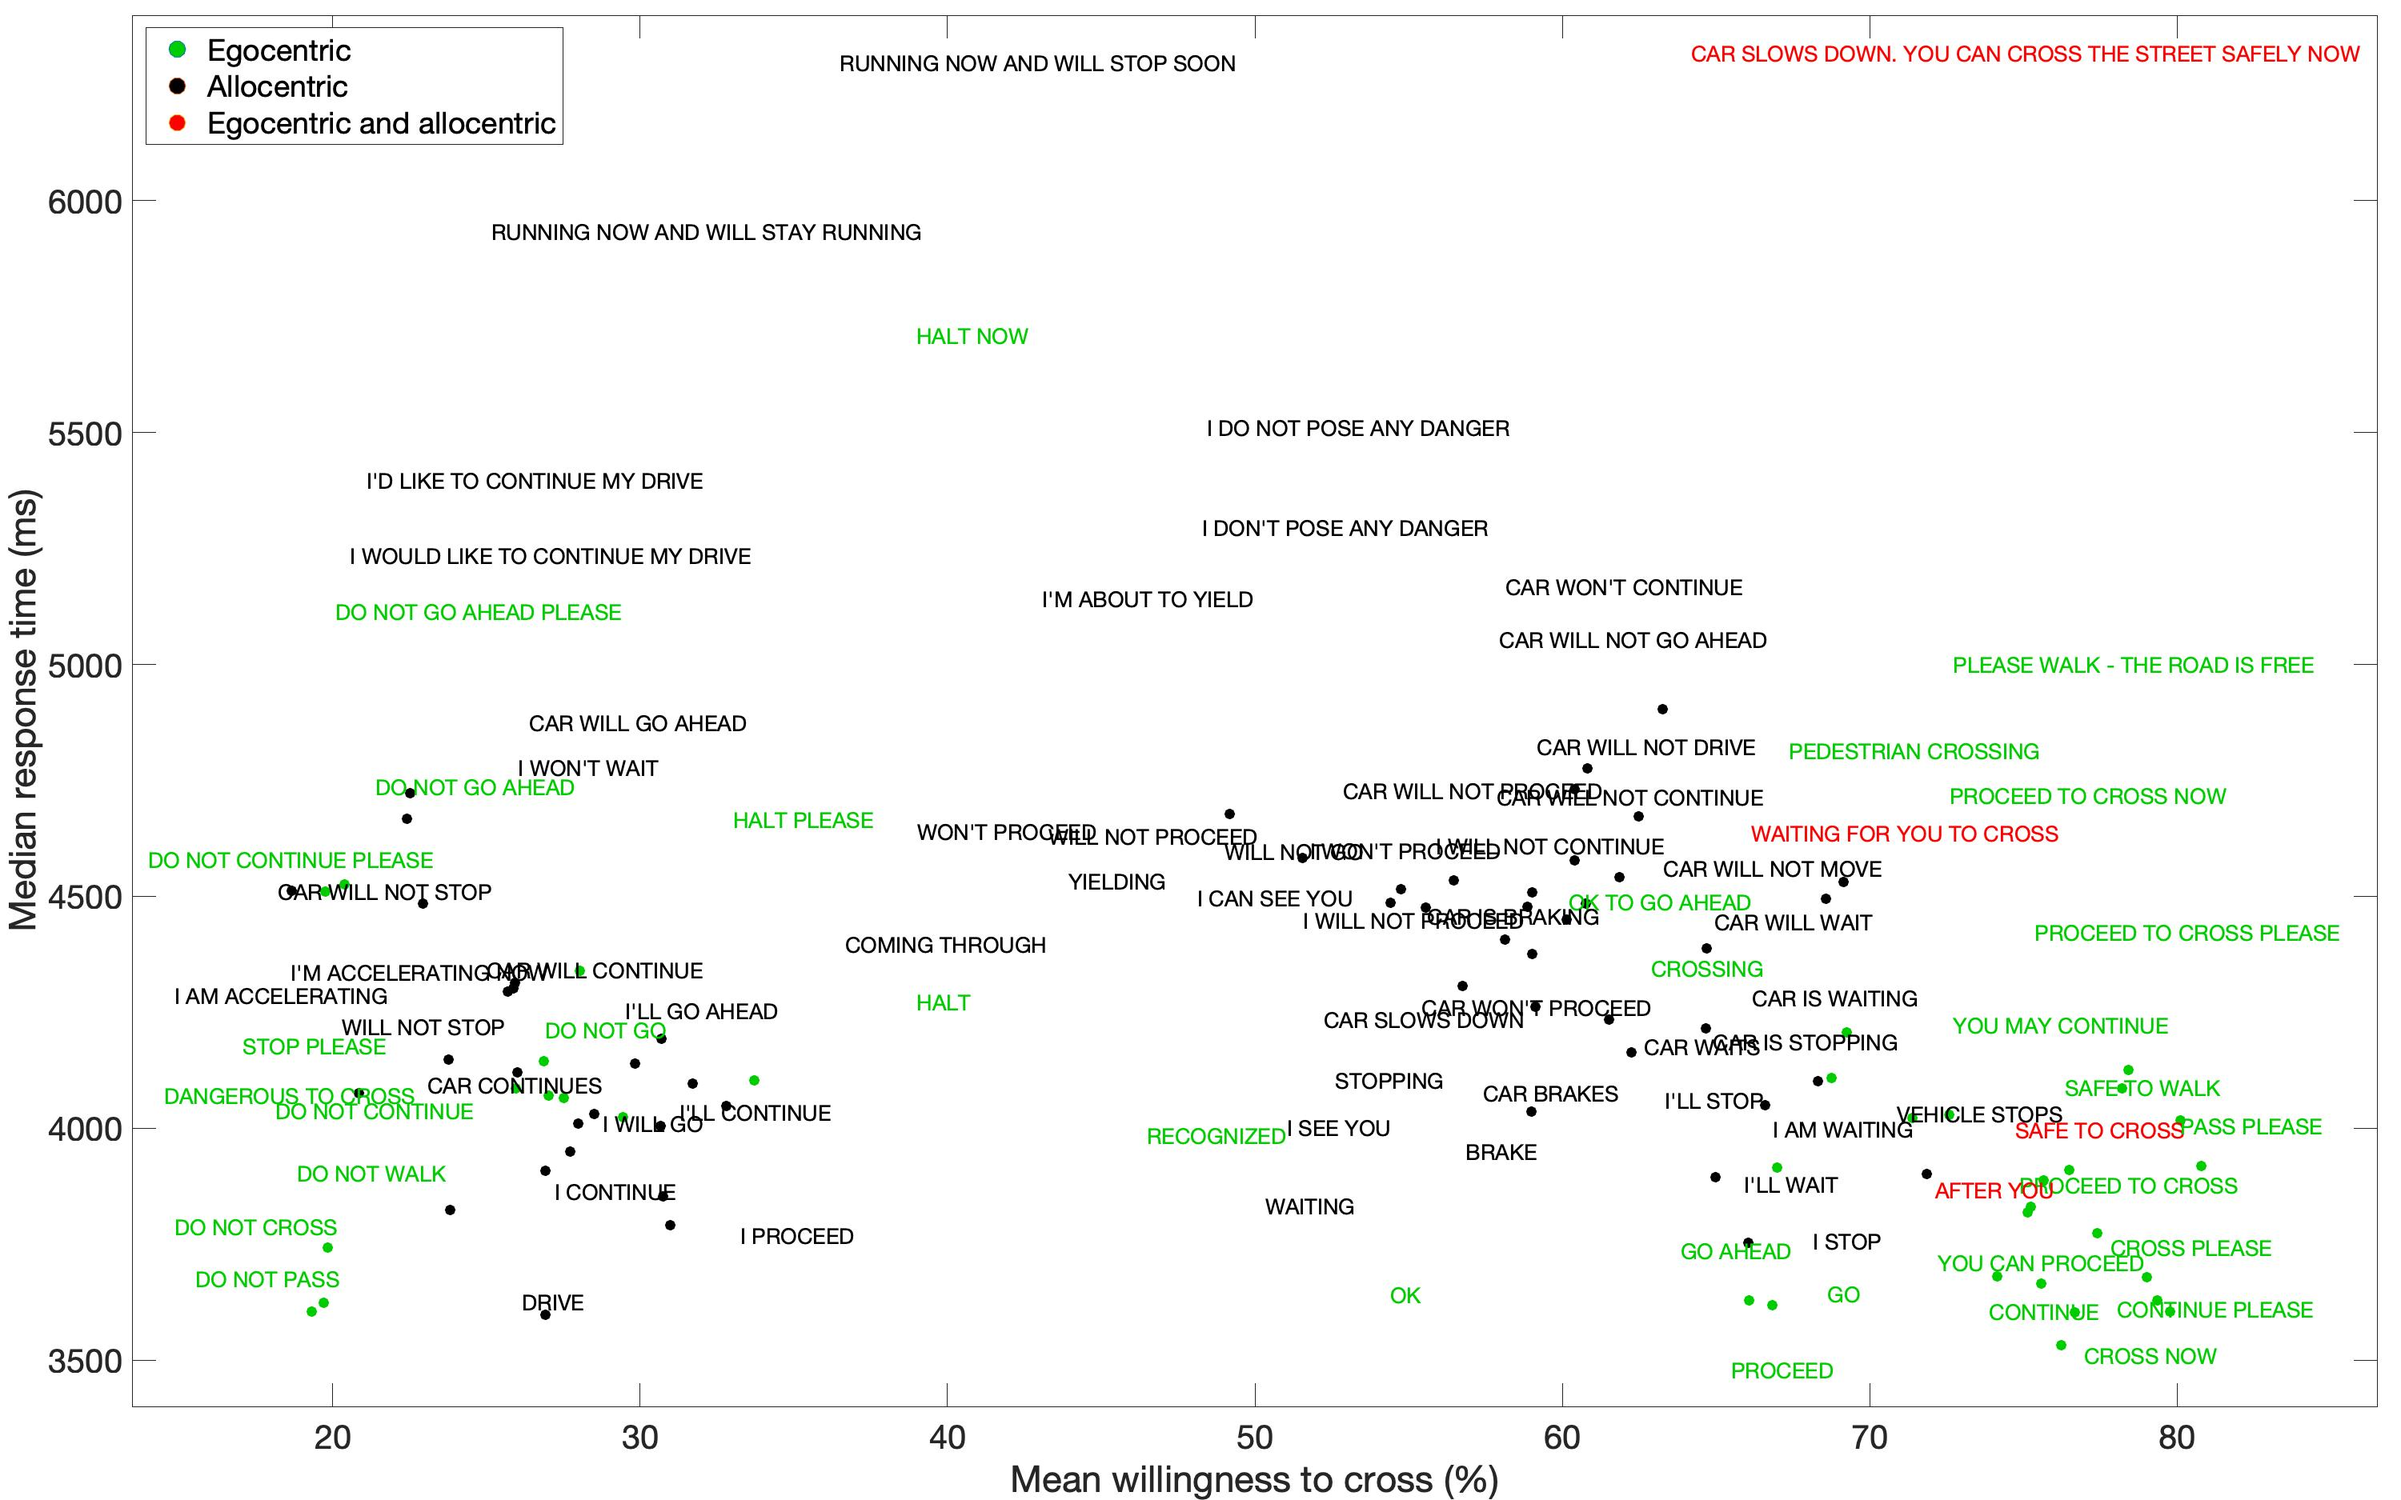
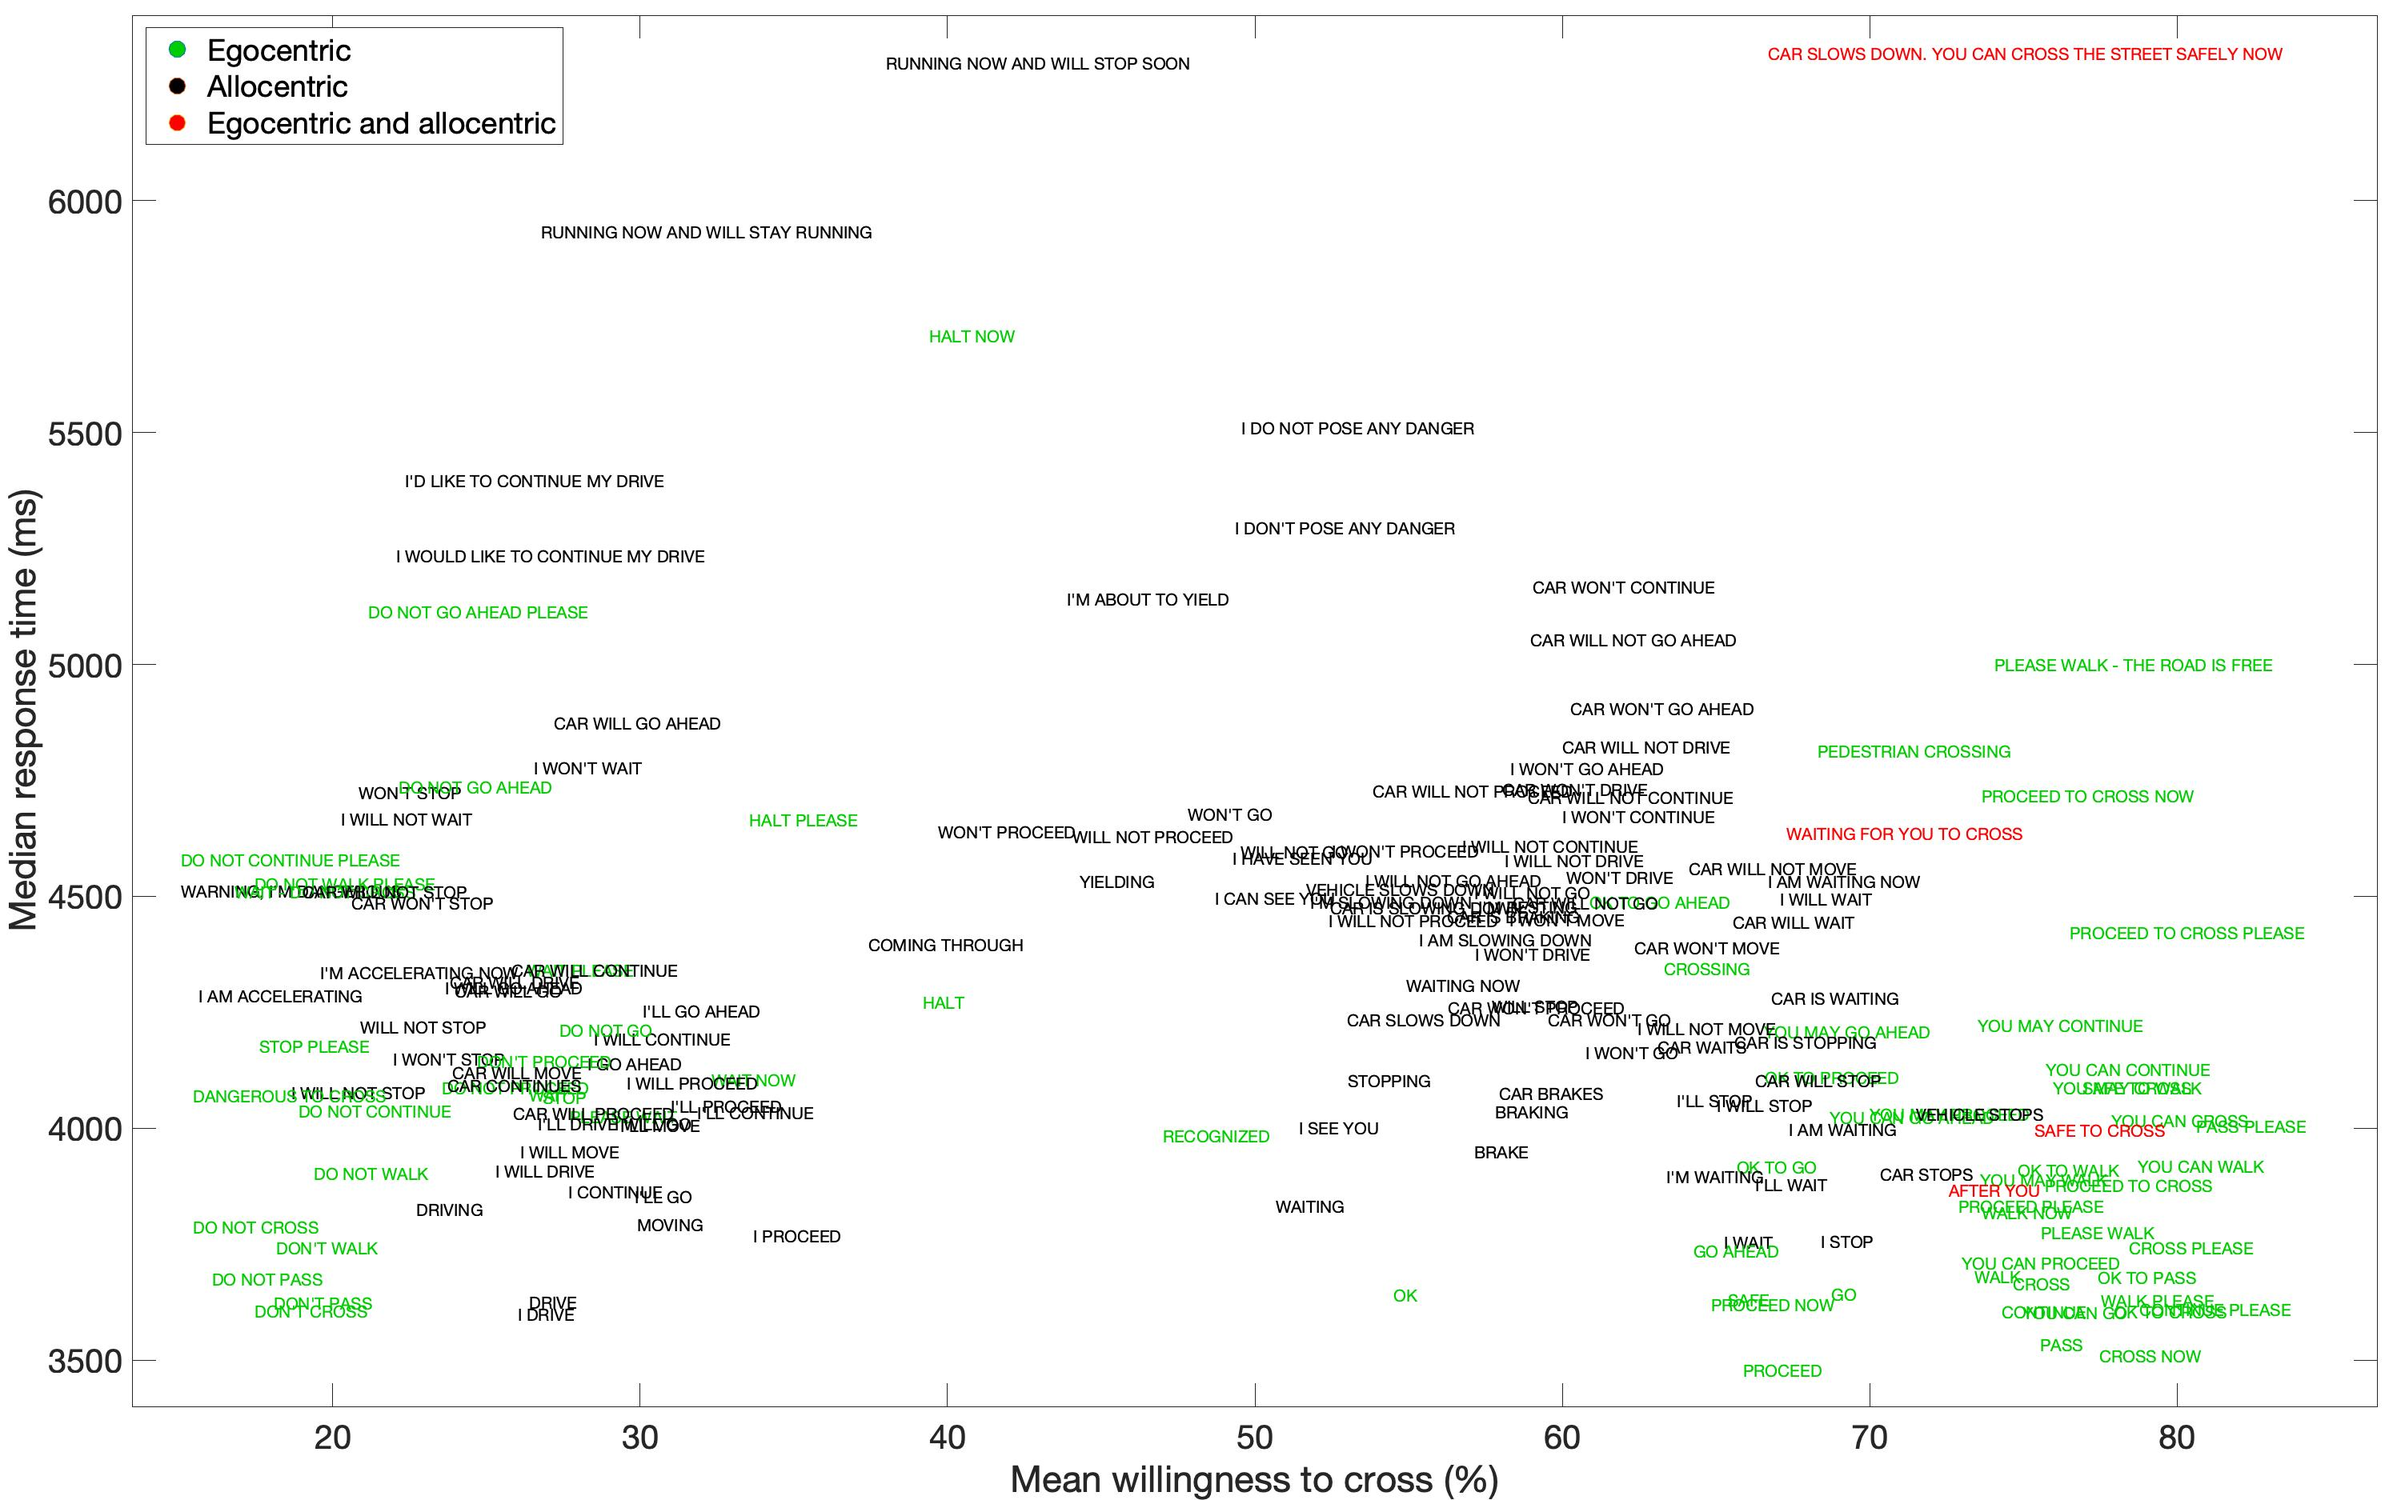
Updated figures

diff --git a/textehmi/analysis/analysis.m b/textehmi/analysis/analysis.m
@@ -107,7 +107,7 @@ for i=1:size(RPo,2)
 end
 [RPoMeanSorted,b]=sort(RPoMean);
 eHMI_text_MeanSorted=char(eHMI_text{b,:});
-% STD willingness to cross
+% SD willingness to cross
 RPoSTD=deal(NaN(N_STIMULI,1));
 for i=1:size(RPo,2)
     RPoSTD(i)=nanstd(RPo(:,i));
@@ -227,6 +227,59 @@ if config.save_figures
     export_figure(gcf, [config.path_figures filesep 'mean-cross'], 'jpg')
 end
 
+%% SD willingness to cross for all stimuli
+figure;
+hold on;
+box on;
+for i=1:N_STIMULI % loop over eHMIs
+    bar_obj(i) = bar(i, RPoSTDSorted(i), ...
+                     'barwidth', 1, ...
+                     'facecolor', 'b', ...
+                     'edgecolor','k');
+end
+% assign colours to pairs of EN and ES eHMIs
+if COLOUR_SAME_EHMI
+    cmap = colormap(jet); % choose colormap
+    counter_colour = 1;  % counter for assigned colours
+    for i=1:N_STIMULI % loop over eHMIs
+        % get index in cell array
+        ehmi = strtrim(eHMI_text_STDSorted(i,:));
+        % check if there is Spanish translation
+        if find(ismember(mapping{:,10}, ehmi))
+            index_es = find(ismember(mapping{:,10}, ehmi));
+            ehmi_es = char(mapping{index_es,2});
+            % find index of ES eHMI
+            for j=1:N_STIMULI % loop over eHMIs
+                ehmi_tick_trimmed = strtrim(eHMI_text_STDSorted(j,:));
+                if strcmp(ehmi_es, ehmi_tick_trimmed)
+                    i_es = j;
+                    break;
+                end
+            end
+            % set colour
+            set(bar_obj(i),'FaceColor', cmap(counter_colour,:));
+            set(bar_obj(i_es),'FaceColor', cmap(counter_colour,:));
+            counter_colour = counter_colour + STEP_COLOUR;
+        end
+    end
+end
+set(gca, 'xlim', [-1 N_STIMULI+1], ...
+    'tickdir', 'out', ...
+    'ylim', [0 40], ...
+    'xtick', [1:1:N_STIMULI], ...
+    'xticklabel', eHMI_text_STDSorted, ...
+    'LooseInset', [0.01 0.01 0.01 0.01])
+xlabel('eHMI')
+ylabel('\it{SD}\rm willingness to cross (%)')
+h=findobj('FontName', 'Helvetica');
+set(h,'FontSize', 8, 'Fontname', 'Arial')
+% maximise and export as eps and jpg (for readme)
+if config.save_figures
+    export_figure(gcf, [config.path_output filesep 'figures' ...
+                        filesep 'sd-cross'], 'epsc')
+    export_figure(gcf, [config.path_figures filesep 'sd-cross'], 'jpg')
+end
+
 %% Text scatter plot of English-text eHMIs. Mean willingness to cross vs
 % median response time
 figure;hold on;box on
@@ -256,12 +309,12 @@ legend('Egocentric', 'Allocentric', 'Egocentric and allocentric', ...
 % maximise and export as eps and jpg (for readme)
 if config.save_figures
     export_figure(gcf, [config.path_output filesep 'figures' ...
-                        filesep 'median-cross-response-time'], 'epsc')
+                        filesep 'median-cross-mean-cross'], 'epsc')
     export_figure(gcf, [config.path_figures ...
-                        filesep 'median-cross-response-time'], 'jpg')
+                        filesep 'median-cross-mean-cross'], 'jpg')
 end
-<<<<<<< HEAD
-%%
+
+%% Multi-column barplot for mean willingness to cross
 [RPo_mean_sorted,RPO_mean_sorted_o]=sort(nanmean(RPo),'ascend');
 
 cd=NaN(size(RPo,2),3);
@@ -291,13 +344,13 @@ for i=115:227
     text(1,i-114,eHMI_text{RPO_mean_sorted_o(i),:},'color','k','fontsize',6)
 end
 
-set(gca,'xlim',[0 85])
-set(gca,'ydir','reverse')
-set(gca,'pos',[0.26 0.045 0.22 0.94])
-set(gca,'yticklabel',{})
-set(gca,'ticklength',[0.005 0])
-
+set(gca,'xlim',[0 85], ...
+    'pos',[0.26 0.045 0.22 0.94], ...
+    'yticklabel', {}, ...
+    'ticklength', [0.005 0], ...
+    'ydir', 'reverse')
 xlabel('Mean willingness to cross (%)')
+
 
 %subplot(1,4,3)
 %b=barh(RPo_mean_sorted(153:227),'facecolor',[.8 .8 .8],'facecolor','flat');
@@ -311,12 +364,17 @@ xlabel('Mean willingness to cross (%)')
 %set(gca,'yticklabel',{})
 %set(gca,'ticklength',[0.005 0])
 %xlabel('Mean willingness to cross (%)')
-%% Text scatter plot of English-text eHMIs. Mean vs SD willingness to cross and median response time
-=======
+
+% maximise and export as eps and jpg (for readme)
+if config.save_figures
+    export_figure(gcf, [config.path_output filesep 'figures' ...
+                        filesep 'mean-cross-multiple-columns'], 'epsc')
+    export_figure(gcf, [config.path_figures ...
+                        filesep 'mean-cross-multiple-columns'], 'jpg')
+end
 
 %% Text scatter plot of English-text eHMIs. Mean vs SD willingness to cross
 % and median response time
->>>>>>> 4348b7e299712c7f874de7d287267d99402bb84a
 figure;hold on;box on
 cd=NaN(180,3);
 cd(ego,:)=repmat([0 0.8 0], length(ego), 1);
@@ -343,9 +401,9 @@ legend('Egocentric', 'Allocentric', 'Egocentric and allocentric', ...
 % maximise and export as eps and jpg (for readme)
 if config.save_figures
     export_figure(gcf, [config.path_output filesep 'figures' ...
-                        filesep 'median-cross-sd-cross'], 'epsc')
+                        filesep 'mean-cross-sd-cross'], 'epsc')
     export_figure(gcf, [config.path_figures ...
-                        filesep 'median-cross-sd-cross'], 'jpg')
+                        filesep 'mean-cross-sd-cross'], 'jpg')
 end
 
 %% Response time USA/VEN

diff --git a/README.md b/README.md
@@ -47,6 +47,9 @@ Median willingness to cross over SD willingness to cross. Colours denote the typ
 ![ehmis in english and spanish](https://github.com/bazilinskyy/text-crowdsourced/blob/main/figures/median-cross-en-es.jpg?raw=true)
 Median willingness to cross for eHMIs presented in both English and Spanish.
 
+![mean willingness to cross on multiple columns](https://github.com/bazilinskyy/text-crowdsourced/blob/main/figures/mean-cross-multiple-columns.jpg?raw=true)
+Mean willingness to cross.
+
 ![median willingness to cross](https://github.com/bazilinskyy/text-crowdsourced/blob/main/figures/median-cross.jpg?raw=true)
 Median willingness to cross. Colours show stimuli that were presented in both English and Spanish.
 
